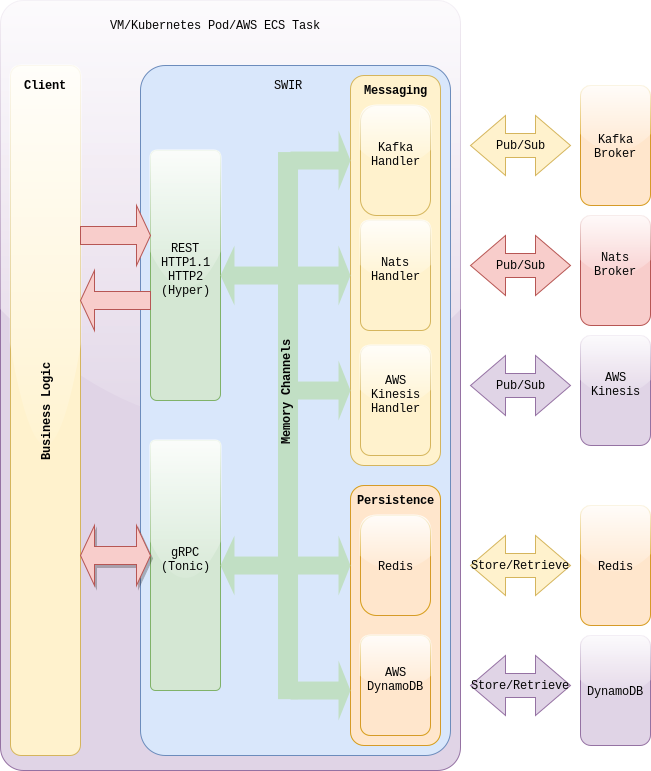
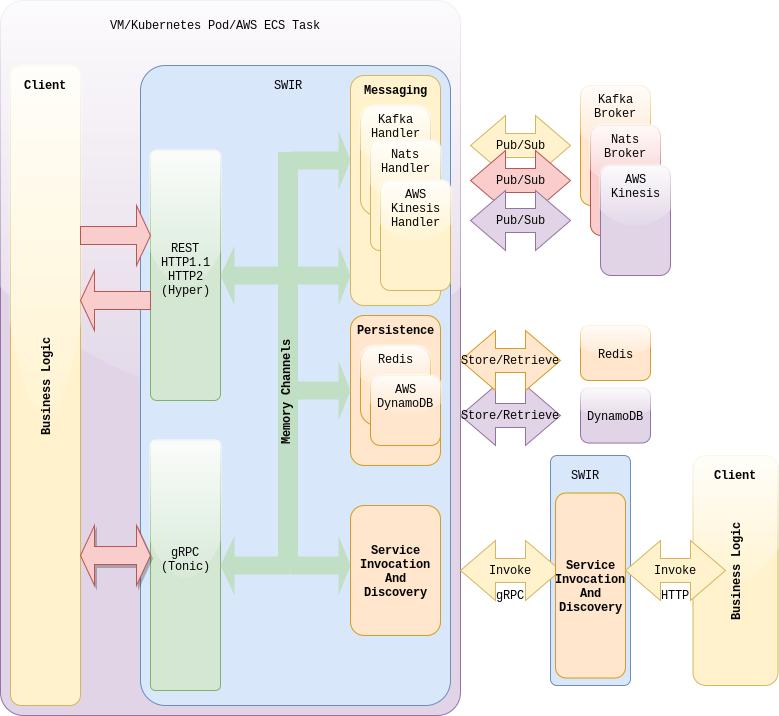
Service invocation and discovery feature - Readme and prepare for merge
On branch service_invocation_and_discovery

Changes to be committed:
	modified:   README.md
	new file:   graphics/example-solution-sdi.drawio
	new file:   graphics/example-solution-sdi.png
	new file:   graphics/example-solution-sdi.svg
	deleted:    graphics/swir-architecture.drawio
	deleted:    graphics/swir-architecture.svg
	new file:   graphics/swir_architecture.drawio
	modified:   graphics/swir_architecture.png
	new file:   graphics/swir_architecture.svg

diff --git a/README.md b/README.md
@@ -28,6 +28,8 @@ The rationale of this point could be explained better with a simple stakeholder 
 - **Corporate security teams** - From the security teams perspective, the sidecar approach should be particularly appealing. Instead of having to vet many different technology stacks with many different ways of securing network connectivity or encrypting data, only a sidecar needs to be thoroughly vetted. Adherence to security principles could be governed and enforced at the enterprise level through changes to the sidecar and without impacting the schedule or functionality of the business logic. Common but complex things such as the use of encryption could be accessible to applications written in different technology stacks through a simple API call to a sidecar. In a braver scenario, a specialised sidecar could encrypt all highly sensitive fields before being written to persistent storage. Again simplifying the life for the application and security teams and helping the enterprise building a better and more secure solution.
 
 ## Usecases
+
+### PubSub
 The example presented in [docker/solution-example](docker/solution-example) shows how applications using completely different technology stacks can talk to each other seamlessly using SWIR sidecars. As shown in the diagram below, we have python/gRPC, java/Springboot and java/gRPC business logic communicating with each other over Kafka/Nats brokers.  
 The use case is broken into two layers:
 
@@ -42,12 +44,20 @@ The real power of sidecars can be appreciated when we consider migrating this ex
 ![Example solution in AWS](./graphics/example-aws-solution.png)
 
 
+### State
+SWIR can abstract your application logic from the nitty-gritty details of how and where the data is stored. SWIR presents a consistent interface and will smooth subtle differences between the engines. Example solutions described above show how SWIR can be used to store data in Redis or Amazon DynamoDB. 
 
-### Similar Frameworks
 
-SWIR has been influenced by Microsoft's [Distributed Application Runtime - Dapr](https://github.com/dapr/dapr).
+### Service Discovery and Invocation 
+Service Discovery and Invocation and yet another use case where sidecars can show their value. Here SWIR sidecars create a service mesh and provide capabilities to advertise, discover and make API calls to services behind them. In service discovery and invocation mode, SWIR serves as an abstraction layer which handles connectivity, authentication, authorisation on behalf of the application's business logic. The figure below shows the general concept where SWIR uses mDNS for advertising and discovering services. Unfortunately, mDNS does not work in AWS, so we provided a simple resolver based on AWS DynamoDB. This resolver is super straightforward and not production-ready, but it should not take much to connect it to Consul or other well-known service registries. 
 
-It is hard to compete with Microsoft's unlimited resources, but someday perhaps SWIR might achieve a parity :)
+![Service Discovery and Invocation ](./graphics/example-solution-sdi.png)
+
+For more details have a look at the examples provided in [docker/solution-example-service-invocation](docker/solution-example-service-invocation) and [docker/solution-example-aws-service-invocation](docker/solution-example-aws-service-invocation).
+
+## Top Level Architecture
+![Diagram](./graphics/swir_architecture.png)
+
 
 ## Rust
 Rust is a safe language, and side by side benchmarks show that the applications which are written in Rust achieve performance comparable with applications written in C or C++. In choosing an implementation language for a sidecar, these two factors are probably the most important. Rust language secure design guarantees that an attacker can't compromise the sidecar due to problems with memory safety. At the same time, since sidecar is responsible for most of the application's system-level functionality, it is crucial to minimise sidecar's impact on the performance. As Rust has no runtime nor garbage collector, it can run very fast and with small latency.
@@ -57,26 +67,23 @@ Rust is a safe language, and side by side benchmarks show that the applications 
 This project is just a starting point to a conversation about sidecars, particularly for solutions consisting of many event-driven components. Even then it has some interesting features mainly because of the quality of crates created and maintained by Rust community:
 SWIR:
  - has moved to asynchronous programming
- - uses [Hyper](https://hyper.rs/) to expose REST interfaces over HTTP or HTTPS
- - uses [Tonic](https://docs.rs/tonic/0.1.1/tonic/index.html) to handle gRPC calls
- - uses [rdkafka](https://github.com/fede1024/rust-rdkafka) to talk to [Kafka](https://kafka.apache.org/) brokers
- - uses [Nats](https://github.com/jedisct1/rust-nats) to talk to [NATS](https://nats.io) brokers
- - uses [rusoto](https://github.com/rusoto/rusoto) AWS SDK for Rust 
- - uses [redis-rs](https://github.com/mitsuhiko/redis-rs) Redis SDK for Rust
- - is using modified [config-rs](https://github.com/swir-rs/config-rs) so various aspects can be configured via a yaml file and environment variables can be easily injected based on an environment
- - SWIR uses conditional compilation which allows creating sidecars with just Kafka or Kafka and NATS
- - SpringBoot and gRPC Java clients and other components allowing testing it end to end
- - SWIR can start the client application (for time being only SpringBoot standalone jars)
+ - uses [Hyper](https://hyper.rs/) to expose REST interfaces over HTTP or HTTPS  
+ - uses [Tonic](https://docs.rs/tonic/0.1.1/tonic/index.html) to handle gRPC calls  
+ - uses [rdkafka](https://github.com/fede1024/rust-rdkafka) to talk to [Kafka](https://kafka.apache.org/) brokers  
+ - uses [Nats](https://github.com/jedisct1/rust-nats) to talk to [NATS](https://nats.io) brokers  
+ - uses [rusoto](https://github.com/rusoto/rusoto) AWS SDK for Rust   
+ - uses [redis-rs](https://github.com/mitsuhiko/redis-rs) Redis SDK for Rust  
+ - is using modified [config-rs](https://github.com/swir-rs/config-rs) so various aspects can be configured via a yaml file and environment variables can be easily injected based on an   environment  
+ - adapted and improved mDNS(https://github.com/swir-rs/rust-mdns) to advertise/resolve services  
+ - SWIR uses conditional compilation which allows creating sidecars with just Kafka or Kafka and NATS  
+ - HTTP and gRPC Java and Python clients and other components allowing testing it end to end  
+ - SWIR can start the client application (for time being only SpringBoot standalone jars)  
    
-
 ## Short Term Roadmap
-- gRPC service meshing at the backend
-- encryption offloading
-- Redis/Cassandra facade
-- logging
-
-## Top Level Architecture
-![Diagram](./graphics/swir_architecture.png)
+- encryption offloading  
+- maybe Cassandra facade  
+- logging and monitoring__
+- better security, TLS everywhere and proper authentication and authorisation
 
 
 # Requirements
@@ -90,5 +97,9 @@ SWIR:
 Generally all the steps are exaplained in cicd.sh scripts.  
 The more advanced scenario how SWIR could be applied to facilitate seamless communication of applications based on different technical stacks [docker/solution-example](docker/solution-example) and [docker/solution-example-aws](docker/solution-example-aws) .  
 The performance harness that is used to measure/compare SWIR against other solutions is in [docker/performance-framework](docker/performance-framework)  
+
+### Similar Frameworks
+
+SWIR has been influenced by Microsoft's [Distributed Application Runtime - Dapr](https://github.com/dapr/dapr). It is hard to compete with Microsoft's unlimited resources, but someday perhaps SWIR might achieve a parity :)
 
 
